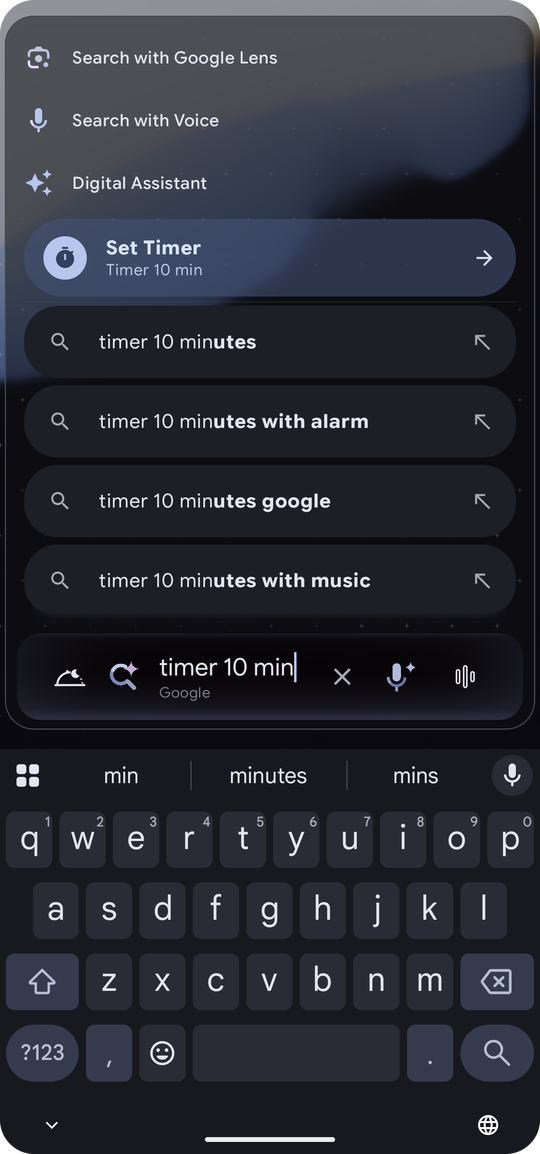
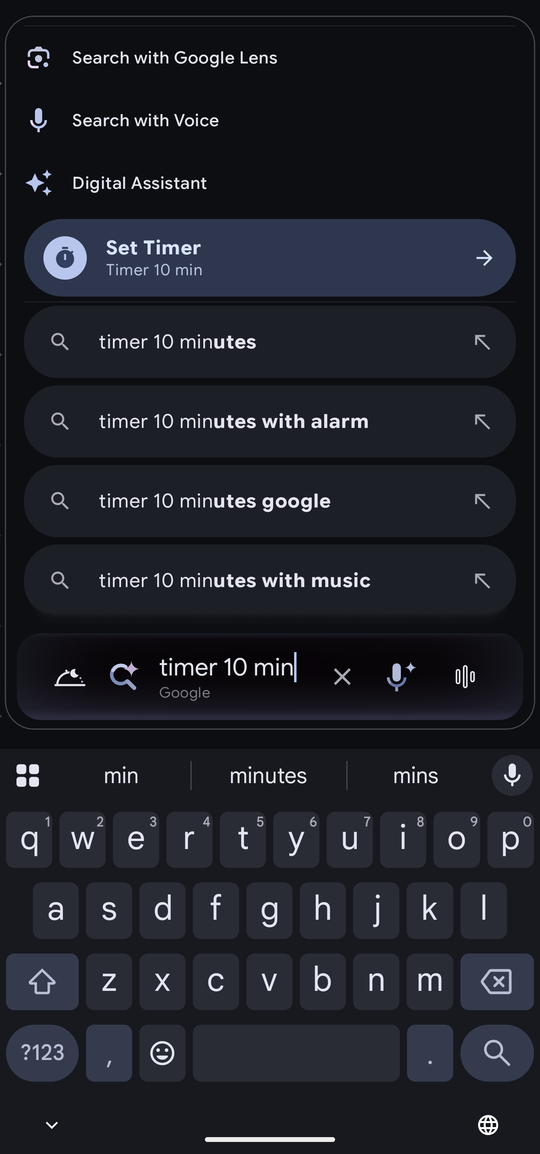
GitHub page: one search story in the showcase, weather and a definition in place of the math shots

Changed region(s): [[0.0, 0.0, 1.0, 0.3432], [0.9481, 0.9671, 1.0, 1.0], [0.0, 0.9671, 0.0593, 1.0]]

diff --git a/README.md b/README.md
@@ -15,9 +15,9 @@
 
 <br/>
 
-<img src="docs/images/showcase.png" width="900" alt="Discover, an instant calculator answer and Quick controls" />
+<img src="docs/images/showcase.png" width="900" alt="Searching: Clock as the best match, the weather in New York, and a timer set from a sentence" />
 
-<sub><b>Discover</b> · <b>Instant answers</b> · <b>Quick controls</b></sub>
+<sub><b>Best match</b> · <b>Instant answers</b> · <b>Quick actions</b></sub>
 
 </div>
 
@@ -43,8 +43,8 @@
 <table>
   <tr>
     <td align="center" valign="top"><img src="docs/images/01_best_match.png" width="190" alt="An app as the best match" /><br/><sub><b>Best match</b></sub></td>
-    <td align="center" valign="top"><img src="docs/images/02_calculator.png" width="190" alt="Calculator answer" /><br/><sub><b>Instant calculator</b></sub></td>
-    <td align="center" valign="top"><img src="docs/images/03_unit_conversion.png" width="190" alt="Unit conversion" /><br/><sub><b>Unit conversion</b></sub></td>
+    <td align="center" valign="top"><img src="docs/images/02_weather.png" width="190" alt="The weather in New York" /><br/><sub><b>Weather</b></sub></td>
+    <td align="center" valign="top"><img src="docs/images/03_definition.png" width="190" alt="The definition of a word" /><br/><sub><b>Definitions</b></sub></td>
     <td align="center" valign="top"><img src="docs/images/04_quick_actions.png" width="190" alt="A timer from a plain sentence" /><br/><sub><b>Quick actions</b></sub></td>
   </tr>
 </table>
